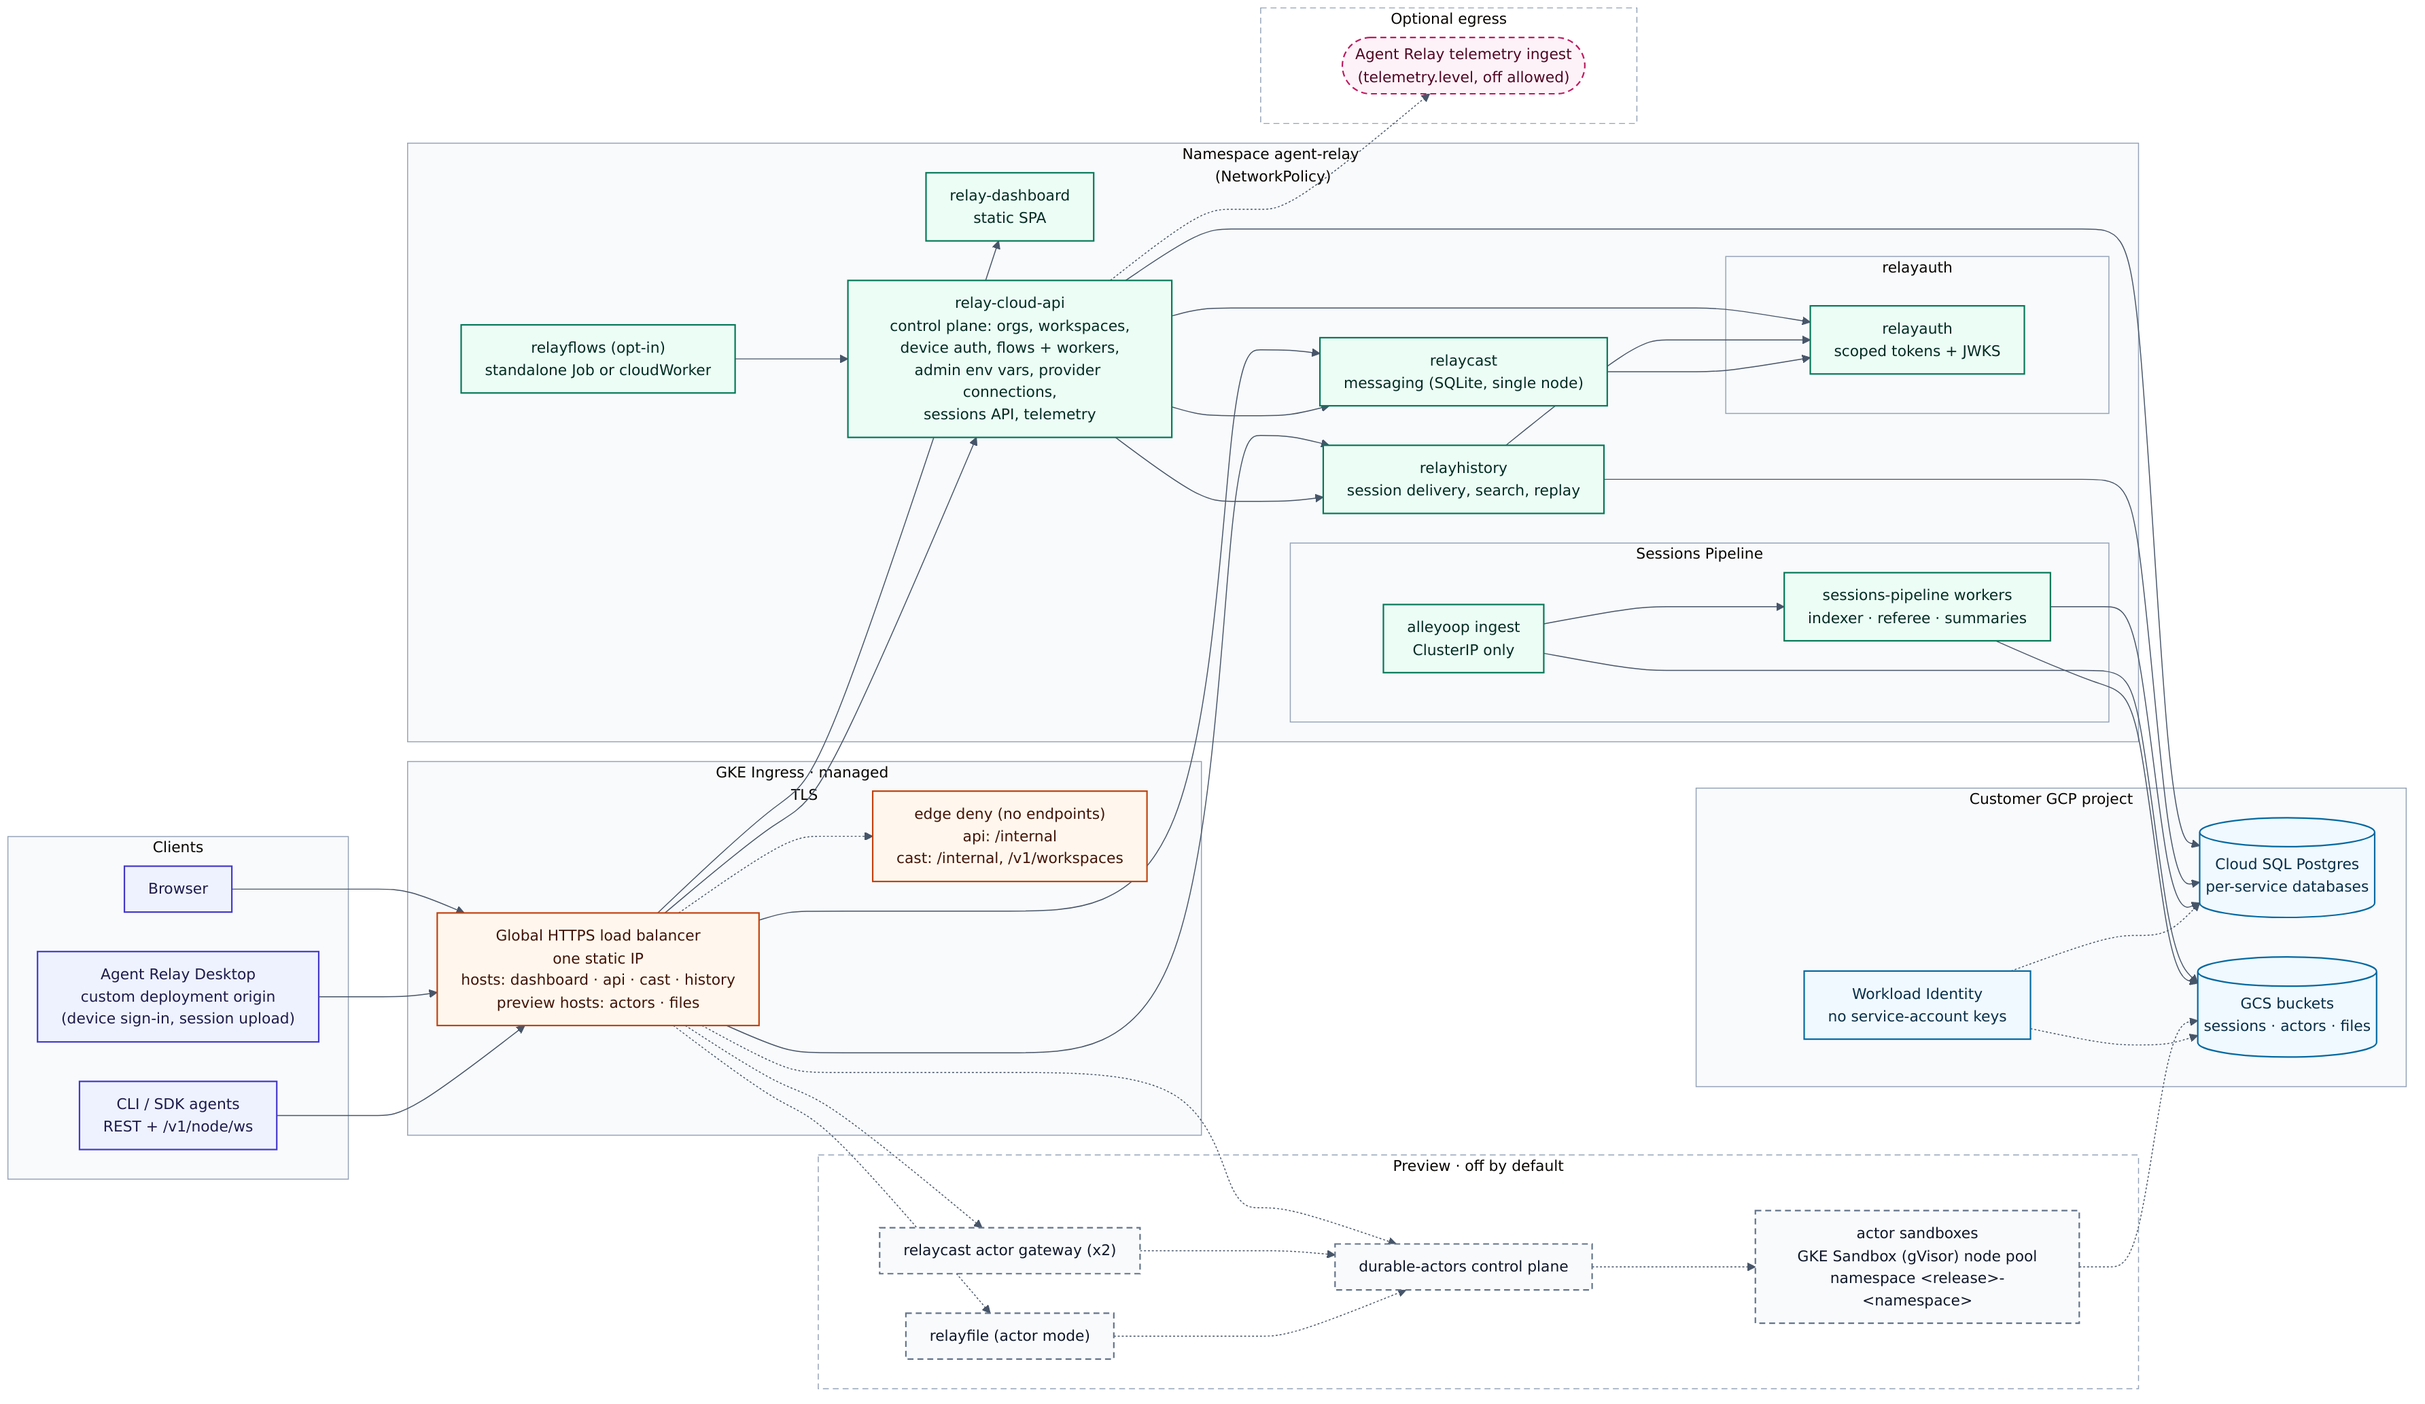
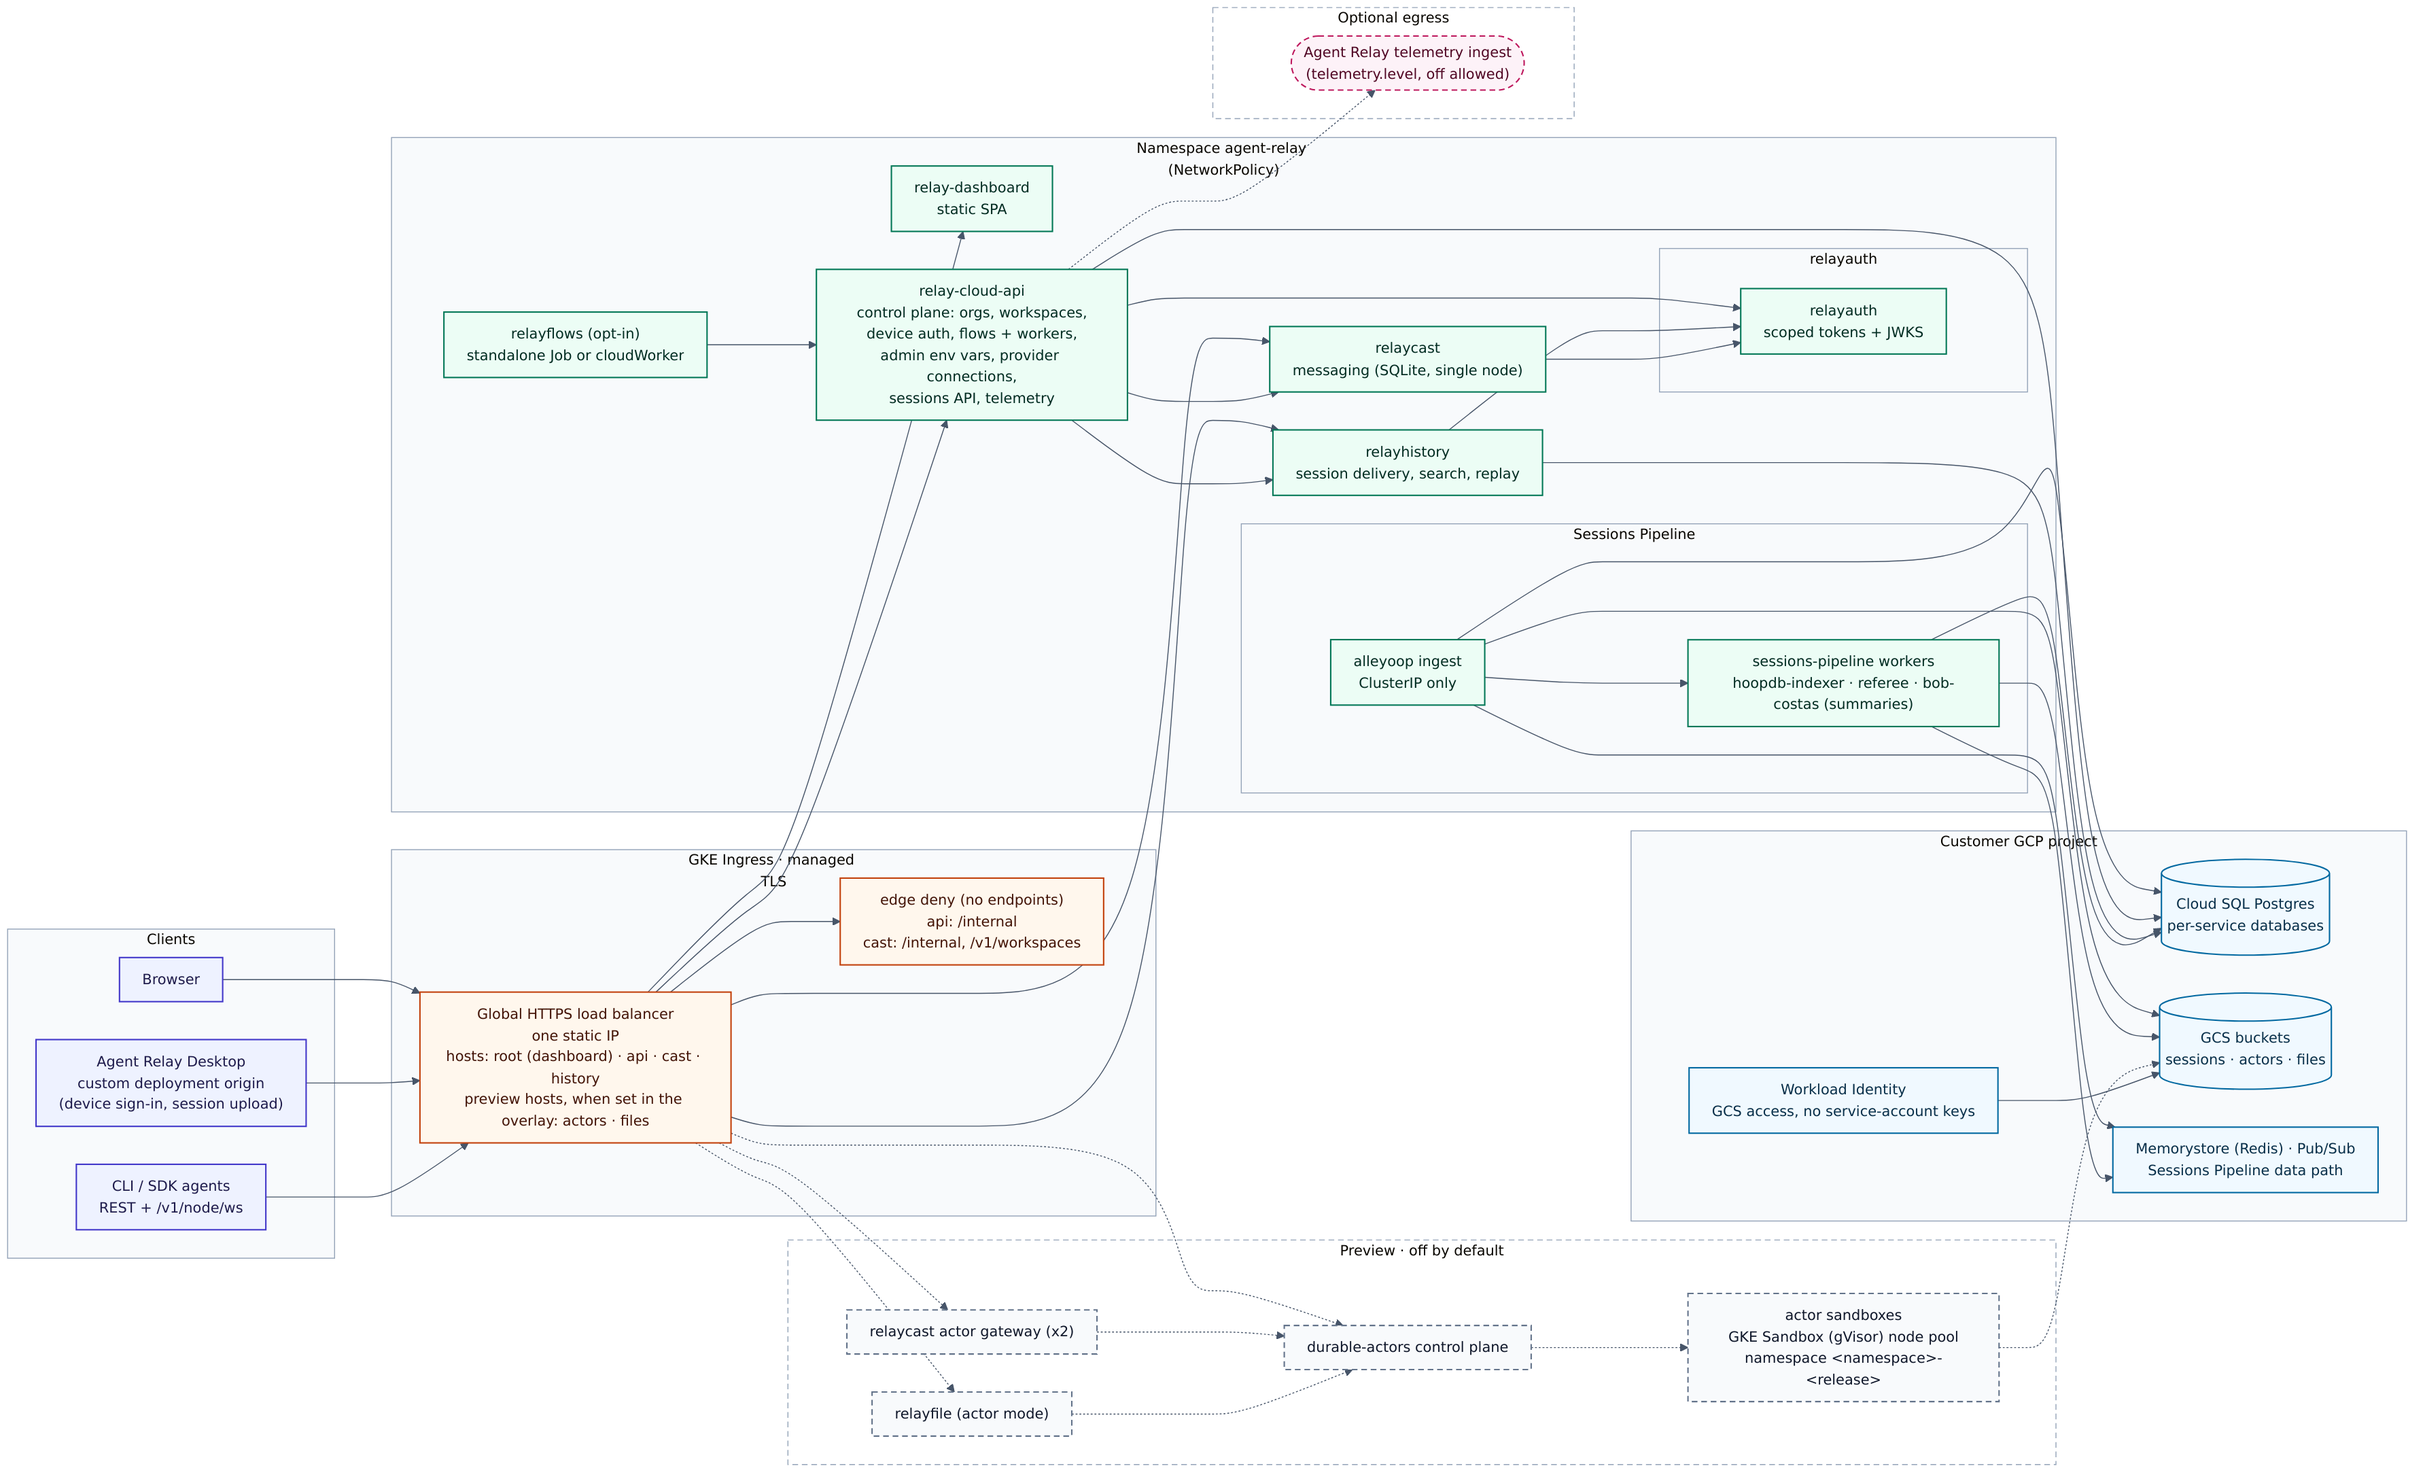
fix: second review round on the diagrams, skill and smoke
- Architecture: no Workload Identity edge to Cloud SQL (Secret-held URLs),
  Memorystore/Pub/Sub and alleyoop to HoopDb, sandbox namespace
  <namespace>-<release>, root (dashboard) host, bob-costas stage name, preview
  hosts only when set, dashed only for preview/optional egress.
- Request flow: name every in-cluster call, including relayhistory JWKS.
- Skill: full compatibility command list, preview hosts need the overlay,
  restore overlay also turns off Relayflows (no standalone Job).
- Smoke compares the skill against committed blobs and modes.
- Reference architecture links the shipped requirements doc; agent-relay
  0.2.1 note keeps its historical 96bulls 0.5.5 dependency.

diff --git a/docs/self-hosted-requirements.md b/docs/self-hosted-requirements.md
@@ -64,7 +64,7 @@ Services image (sessions-pipeline-worker, alleyoop and the privileged SQL Jobs):
 | relayauth-0.1.2 | unreleased | relayauth 0.1.2 | relayauth: `ghcr.io/agentworkforce/relayauth@sha256:c23c92d25fdf…` |  |  | License-annotation patch bump of 0.1.1. |
 | relayauth-0.1.1 | shipped | relayauth 0.1.1 | relayauth: `ghcr.io/agentworkforce/relayauth@sha256:c23c92d25fdf…` |  |  | relayauth 784582ef (machine-bound History assertion contract, relayauth #113). Superseded by 0.1.2. |
 | relayauth-0.1.0 | shipped | relayauth 0.1.0 | relayauth: `ghcr.io/agentworkforce/relayauth@sha256:eb71daa28e30…` |  |  | superseded by 0.1.1. |
-| agent-relay-0.3.0 | unreleased | agent-relay 0.3.0<br>relayhistory 0.1.1<br>relay-cloud-api 0.2.1<br>relay-dashboard 0.1.0<br>(deps: relaycast 0.3.1, relayauth 0.1.2, sessions-pipeline 0.6.0, relayhistory 0.1.1, relay-cloud-api 0.2.1, relay-dashboard 0.1.0, relayflows 0.2.4, durable-actors 0.14.6, relayfile 0.2.0) | relayhistory: `ghcr.io/agentworkforce/relayhistory@sha256:<required>`<br>relay-cloud-api: `ghcr.io/agentworkforce/selfhost-api@sha256:<required>`<br>relay-dashboard: `ghcr.io/agentworkforce/relay-dashboard@sha256:<required>` |  |  | agent-relay 0.3.0 renames the Sessions subchart values key from 96bulls: to sessions-pipeline: (move your overrides; resource names under the umbrella are unchanged). relay-cloud-api 0.2.0 renders the relaycontrol contract (encryption.keyId required; internal token, dashboardUrl, flows, telemetry off by default). The GKE ingress denies /internal on the api host and gives the api backend a BackendConfig timeout (default 3600s) for the flows queue SSE stream. Supersedes the never-released 0.1.0. GKE proof packaging. Live proof pins (values-gcp-proof-live.yaml): dashboard sha256:23361e08b899f272ed5debcbd4e7d6c6555591029357d6fba6c54236063bca62 (relay-dashboard 53d484b); experimental unsupported RelayHistory sha256:72a057c27edbec53412a2b3a665913810b5d9a95d8b6b818946f1892590147bf (relayhistory-cloud 74a6e526, erasure fix). The CI render fixture and customer-images.yaml keep dashboard sha256:9bfc0c6b873411c7a0da60d746883bdef6aafd86a9b733c719500a603890b6fe and RelayHistory sha256:8fbda9bd89dd33994b6b3331fb403c38a25f04e6742050bd717e99661f3544ba. selfhost-api remains fail-closed until published and supplied by digest. The dashboard's same-origin /cloud/api is served by selfhost-api natively (it owns /cloud/api and /login; no ingress rewrite). No HA claim. 0.2.0 adds optional components.durableActors (vendored durable-actors 0.14.6) and components.relayfile, both off by default. relayhistory 0.1.1 adds migrations.drainForWriteHold (two-step write-hold upgrade; the migrate Job waits until no History pod exists, README). relay-cloud-api 0.2.1: telemetry.level defaults to errors (scrubbed error metadata and health only; it takes effect once the install is registered with installId, install key and endpoint, so a default render stays off and a partial registration fails), telemetry.egressTo defaults to empty (restricted egress with https telemetry must list the ingest addresses), the standalone Ingress denies /internal when secretKeys.internalToken is set, and Helm 3.10+ is required. 0.2.1 moves to sessions-pipeline 0.5.5 (interim RelayAuth bearer stays off by default) and supersedes the never-released 0.2.0. |
+| agent-relay-0.3.0 | unreleased | agent-relay 0.3.0<br>relayhistory 0.1.1<br>relay-cloud-api 0.2.1<br>relay-dashboard 0.1.0<br>(deps: relaycast 0.3.1, relayauth 0.1.2, sessions-pipeline 0.6.0, relayhistory 0.1.1, relay-cloud-api 0.2.1, relay-dashboard 0.1.0, relayflows 0.2.4, durable-actors 0.14.6, relayfile 0.2.0) | relayhistory: `ghcr.io/agentworkforce/relayhistory@sha256:<required>`<br>relay-cloud-api: `ghcr.io/agentworkforce/selfhost-api@sha256:<required>`<br>relay-dashboard: `ghcr.io/agentworkforce/relay-dashboard@sha256:<required>` |  |  | agent-relay 0.3.0 renames the Sessions subchart values key from 96bulls: to sessions-pipeline: (move your overrides; resource names under the umbrella are unchanged). relay-cloud-api 0.2.0 renders the relaycontrol contract (encryption.keyId required; internal token, dashboardUrl, flows, telemetry off by default). The GKE ingress denies /internal on the api host and gives the api backend a BackendConfig timeout (default 3600s) for the flows queue SSE stream. Supersedes the never-released 0.1.0. GKE proof packaging. Live proof pins (values-gcp-proof-live.yaml): dashboard sha256:23361e08b899f272ed5debcbd4e7d6c6555591029357d6fba6c54236063bca62 (relay-dashboard 53d484b); experimental unsupported RelayHistory sha256:72a057c27edbec53412a2b3a665913810b5d9a95d8b6b818946f1892590147bf (relayhistory-cloud 74a6e526, erasure fix). The CI render fixture and customer-images.yaml keep dashboard sha256:9bfc0c6b873411c7a0da60d746883bdef6aafd86a9b733c719500a603890b6fe and RelayHistory sha256:8fbda9bd89dd33994b6b3331fb403c38a25f04e6742050bd717e99661f3544ba. selfhost-api remains fail-closed until published and supplied by digest. The dashboard's same-origin /cloud/api is served by selfhost-api natively (it owns /cloud/api and /login; no ingress rewrite). No HA claim. 0.2.0 adds optional components.durableActors (vendored durable-actors 0.14.6) and components.relayfile, both off by default. relayhistory 0.1.1 adds migrations.drainForWriteHold (two-step write-hold upgrade; the migrate Job waits until no History pod exists, README). relay-cloud-api 0.2.1: telemetry.level defaults to errors (scrubbed error metadata and health only; it takes effect once the install is registered with installId, install key and endpoint, so a default render stays off and a partial registration fails), telemetry.egressTo defaults to empty (restricted egress with https telemetry must list the ingest addresses), the standalone Ingress denies /internal when secretKeys.internalToken is set, and Helm 3.10+ is required. 0.2.1 moved to 96bulls 0.5.5 (interim RelayAuth bearer stays off by default) and supersedes the never-released 0.2.0. |
 | relayfile-0.2.0 | unreleased | relayfile 0.2.0 | relayfile: `ghcr.io/agentworkforce/relayfile:0.1.0` |  |  | License-annotation bump of 0.1.1 (unreleased 0.1.2) plus runtime.backend=durable-actors (gateway, session broker: ghcr.io/agentworkforce/relayfile-actors by digest; deploy Job and dev sidecar: relayfile-actors-workspace by digest). Go server image by tag (Chart.appVersion), not digest; default render unchanged. |
 | durable-actors-0.14.6 | unreleased | durable-actors 0.14.6 |  |  |  | Vendored TerseAI/durable-actors release chart v0.14.6 (tag commit 5f0a2d62, asset sha256 a489cd15...bee) with the local patches listed in charts/durable-actors/UPSTREAM.md (root global, invoke-only key, host idle timeout, pool-manager name length, zero-valued bounds, lowercase ingress host, schema patterns, README links). Never published by this repo; images pinned by upstream digest (charts/durable-actors/UPSTREAM.md). |
 | relayfile-0.1.1 | shipped | relayfile 0.1.1 | relayfile: `ghcr.io/agentworkforce/relayfile:0.1.0` |  |  | image by tag (Chart.appVersion), not digest. Superseded by 0.2.0. |

diff --git a/docs/self-hosted-reference-architecture.md b/docs/self-hosted-reference-architecture.md
@@ -5,7 +5,7 @@ from planned adapter work; it is not evidence that the HA profiles exist.
 
 The per-profile list of what an operator must provide and can choose, and the
 chart/image/migration compatibility matrix, are in the
-[self-hosted requirements registry](https://github.com/AgentWorkforce/helm-charts/blob/main/docs/self-hosted-requirements.md),
+[self-hosted requirements registry](self-hosted-requirements.md),
 generated from [`self-hosted/requirements.yaml`](../self-hosted/requirements.yaml).
 
 Links into the repository `README.md` point at the public source repository
@@ -23,7 +23,7 @@ matching an archive, open the same path at the revision recorded in its
   denies, the components in the release namespace, the Cloud SQL, GCS and
   Workload Identity data plane, the clients, and the optional telemetry
   egress. Preview and optional components (durable-actors, Relayfile,
-  telemetry) have dashed borders.
+  telemetry egress) have dashed borders; Relayflows is opt-in and labelled so.
 - [Request flow](diagrams/agent-relay-request-flow.png)
   ([SVG](diagrams/agent-relay-request-flow.svg),
   [mermaid source](diagrams/agent-relay-request-flow.mmd)): Desktop sign-in
@@ -54,7 +54,7 @@ depend on an add-on. In particular, Relaycast does not require Relayflows.
 
 Relaycast's options for these, including the planned `aws-ha` and `gcp-ha`
 backends, are registry entry
-[`opt.relaycast.runtime-backend`](https://github.com/AgentWorkforce/helm-charts/blob/main/docs/self-hosted-requirements.md#opt-relaycast-runtime-backend).
+[`opt.relaycast.runtime-backend`](self-hosted-requirements.md#opt-relaycast-runtime-backend).
 
 ### `portable-single` — implemented
 
@@ -152,10 +152,10 @@ Selecting `clickhouse` keeps the Postgres path configured, so setting
 `search.backend` back to `postgres` is the single-switch rollback.
 
 Registry entries: the planned option
-[`opt.sessions-pipeline.search-backend`](https://github.com/AgentWorkforce/helm-charts/blob/main/docs/self-hosted-requirements.md#opt-sessions-pipeline-search-backend)
+[`opt.sessions-pipeline.search-backend`](self-hosted-requirements.md#opt-sessions-pipeline-search-backend)
 (CI fails if any template reads a `search.*` value while it is planned), and
 the shipped requirement
-[`req.db.postgres-17-extensions`](https://github.com/AgentWorkforce/helm-charts/blob/main/docs/self-hosted-requirements.md#req-db-postgres-17-extensions)
+[`req.db.postgres-17-extensions`](self-hosted-requirements.md#req-db-postgres-17-extensions)
 (`pg_trgm`, `btree_gin`) that the standard profile relies on.
 
 The Sessions Pipeline chart notes in the [README](https://github.com/AgentWorkforce/helm-charts/blob/main/README.md#transcript-search-profiles)

diff --git a/.agents/skills/setting-up-self-hosted-agent-relay-gcp/SKILL.md b/.agents/skills/setting-up-self-hosted-agent-relay-gcp/SKILL.md
@@ -2,7 +2,7 @@
 name: setting-up-self-hosted-agent-relay-gcp
 description: Guides and verifies a customer-owned self-hosted Agent Relay installation on GCP using the agent-relay Helm umbrella chart, GKE, Cloud SQL, GCS, Relaycast, RelayAuth, RelayHistory, Sessions Pipeline, the control-plane API, Dashboard, and Agent Relay Desktop. Use whenever planning, installing, upgrading, recovering, or validating this GCP self-hosted suite.
 license: Apache-2.0
-compatibility: Requires gcloud, kubectl, Helm 3.10+, python3, network access to the target GKE cluster and the image registry, and operator credentials for the customer GCP project.
+compatibility: Requires gcloud, kubectl, Helm 3.10+, python3, kubeconform, jq, yq, node, openssl, curl and timeout (dig when VERIFY_DNS_RESOLVER is set), network access to the target GKE cluster and the image registry, and operator credentials for the customer GCP project.
 metadata:
   chart: agent-relay
   version: "0.3.0"
@@ -70,9 +70,10 @@ The default public origins are:
 - Relaycast: `https://cast.$BASE_DOMAIN`
 - RelayHistory: `https://history.$BASE_DOMAIN`
 
-With the preview components enabled, the same load balancer also serves
-`https://actors.$BASE_DOMAIN` (durable-actors) and `https://files.$BASE_DOMAIN`
-(Relayfile). See `docs/diagrams/agent-relay-architecture.png` in the handoff
+The preview hosts exist only when the customer overlay sets them:
+`gkeIngress.hosts.actors` (durable-actors, `https://actors.$BASE_DOMAIN`) and
+`gkeIngress.hosts.files` (Relayfile, `https://files.$BASE_DOMAIN`), each with
+its component enabled. See `docs/diagrams/agent-relay-architecture.png` in the handoff
 for the deployed topology.
 
 ## 1. Resolve the layout and run preflight

diff --git a/docs/handoff/HANDOFF.md b/docs/handoff/HANDOFF.md
@@ -5,7 +5,8 @@
 - [Architecture overview](../diagrams/agent-relay-architecture.png)
   ([SVG](../diagrams/agent-relay-architecture.svg), [source](../diagrams/agent-relay-architecture.mmd)):
   what the `agent-relay` umbrella deploys on GKE. Dashed borders mark preview
-  and optional components.
+  components and the optional telemetry egress; Relayflows is opt-in and
+  labelled so.
 - [Request flow](../diagrams/agent-relay-request-flow.png)
   ([SVG](../diagrams/agent-relay-request-flow.svg), [source](../diagrams/agent-relay-request-flow.mmd)):
   Desktop sign-in and device approval, session upload, Dashboard read, and

diff --git a/.agents/skills/setting-up-self-hosted-agent-relay-gcp/references/restore-into-target.md b/.agents/skills/setting-up-self-hosted-agent-relay-gcp/references/restore-into-target.md
@@ -28,6 +28,10 @@ sessions-pipeline:
 relaycast:
   backup:
     enabled: false
+# Relayflows in standalone mode is a Job; keep it off until the restore is
+# verified, then re-enable it in a reviewed upgrade.
+components:
+  relayflows: false
 ```
 
 ```bash
